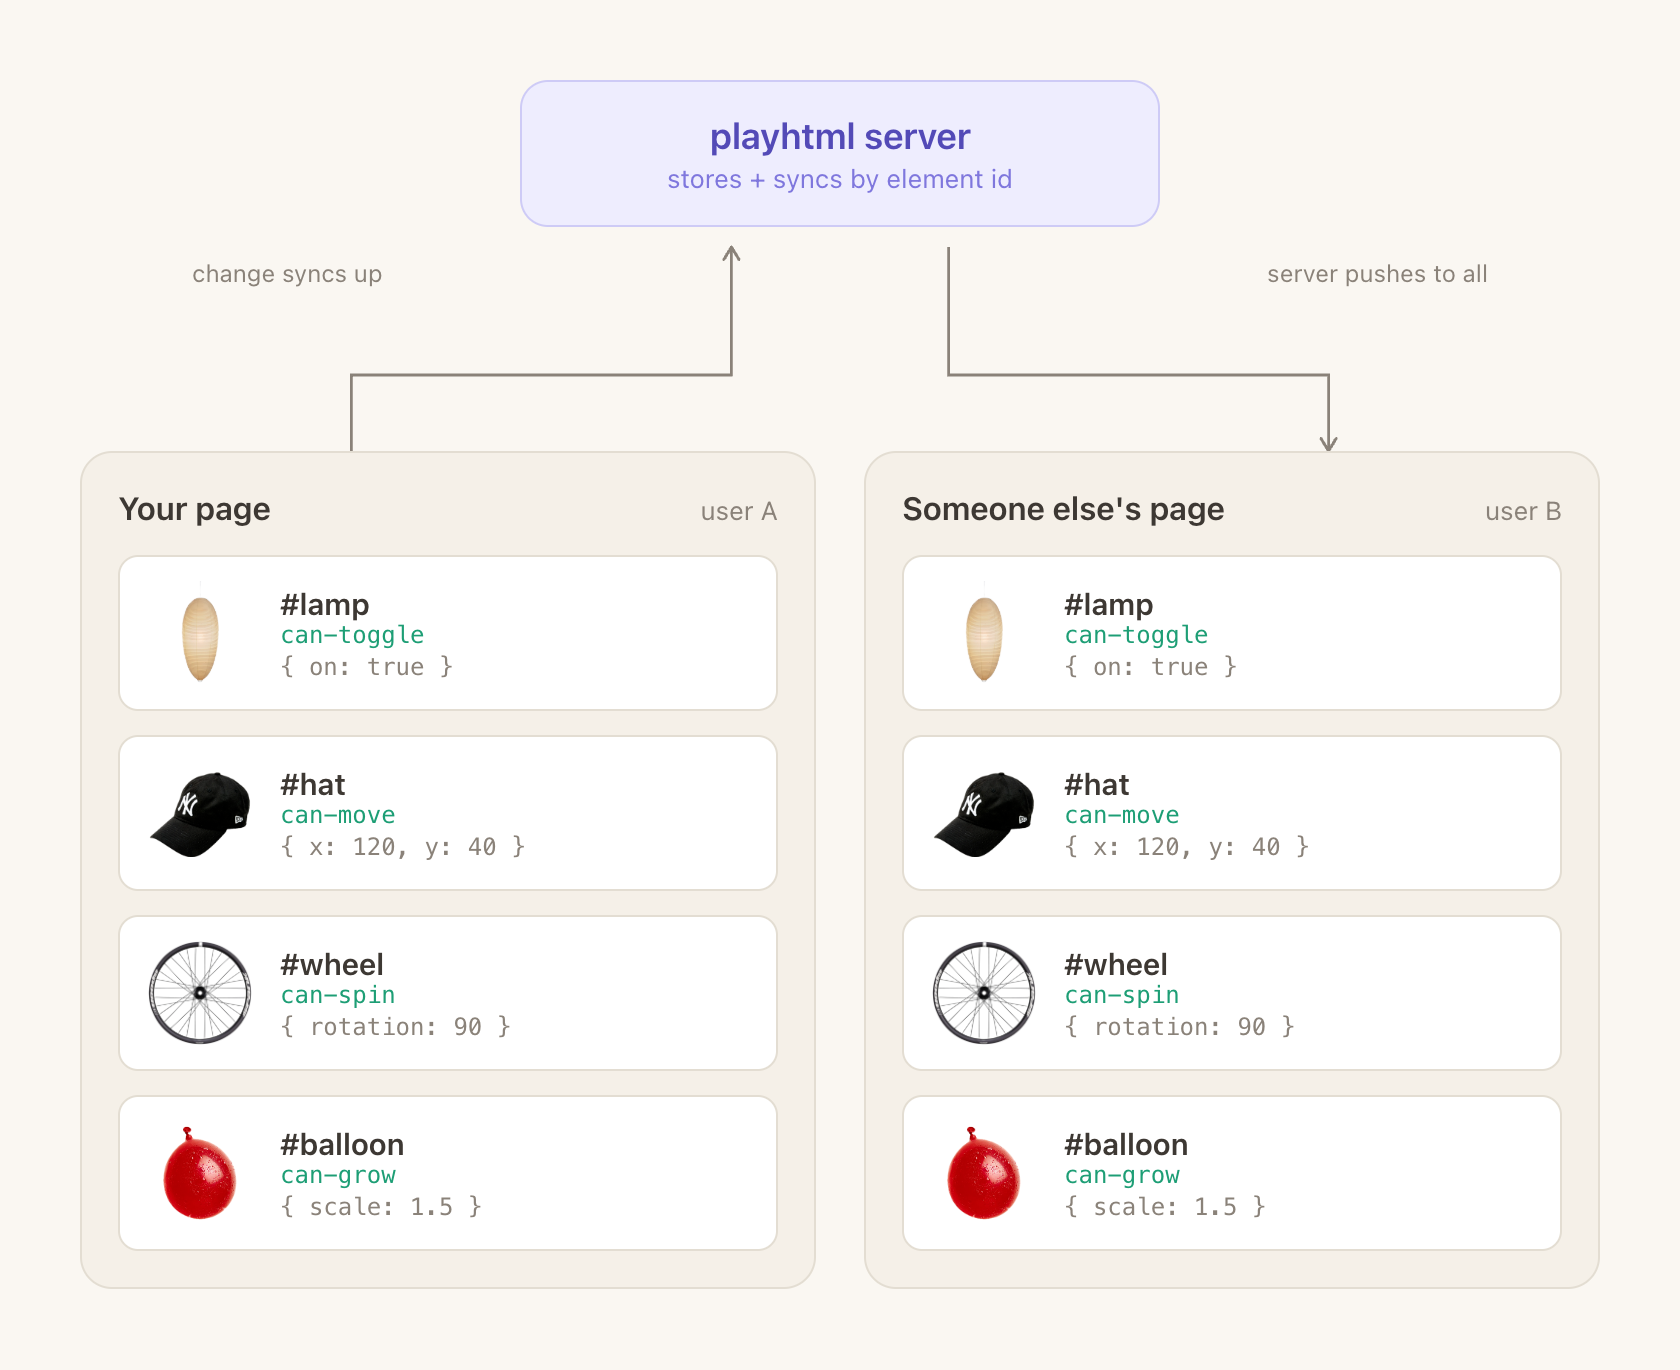
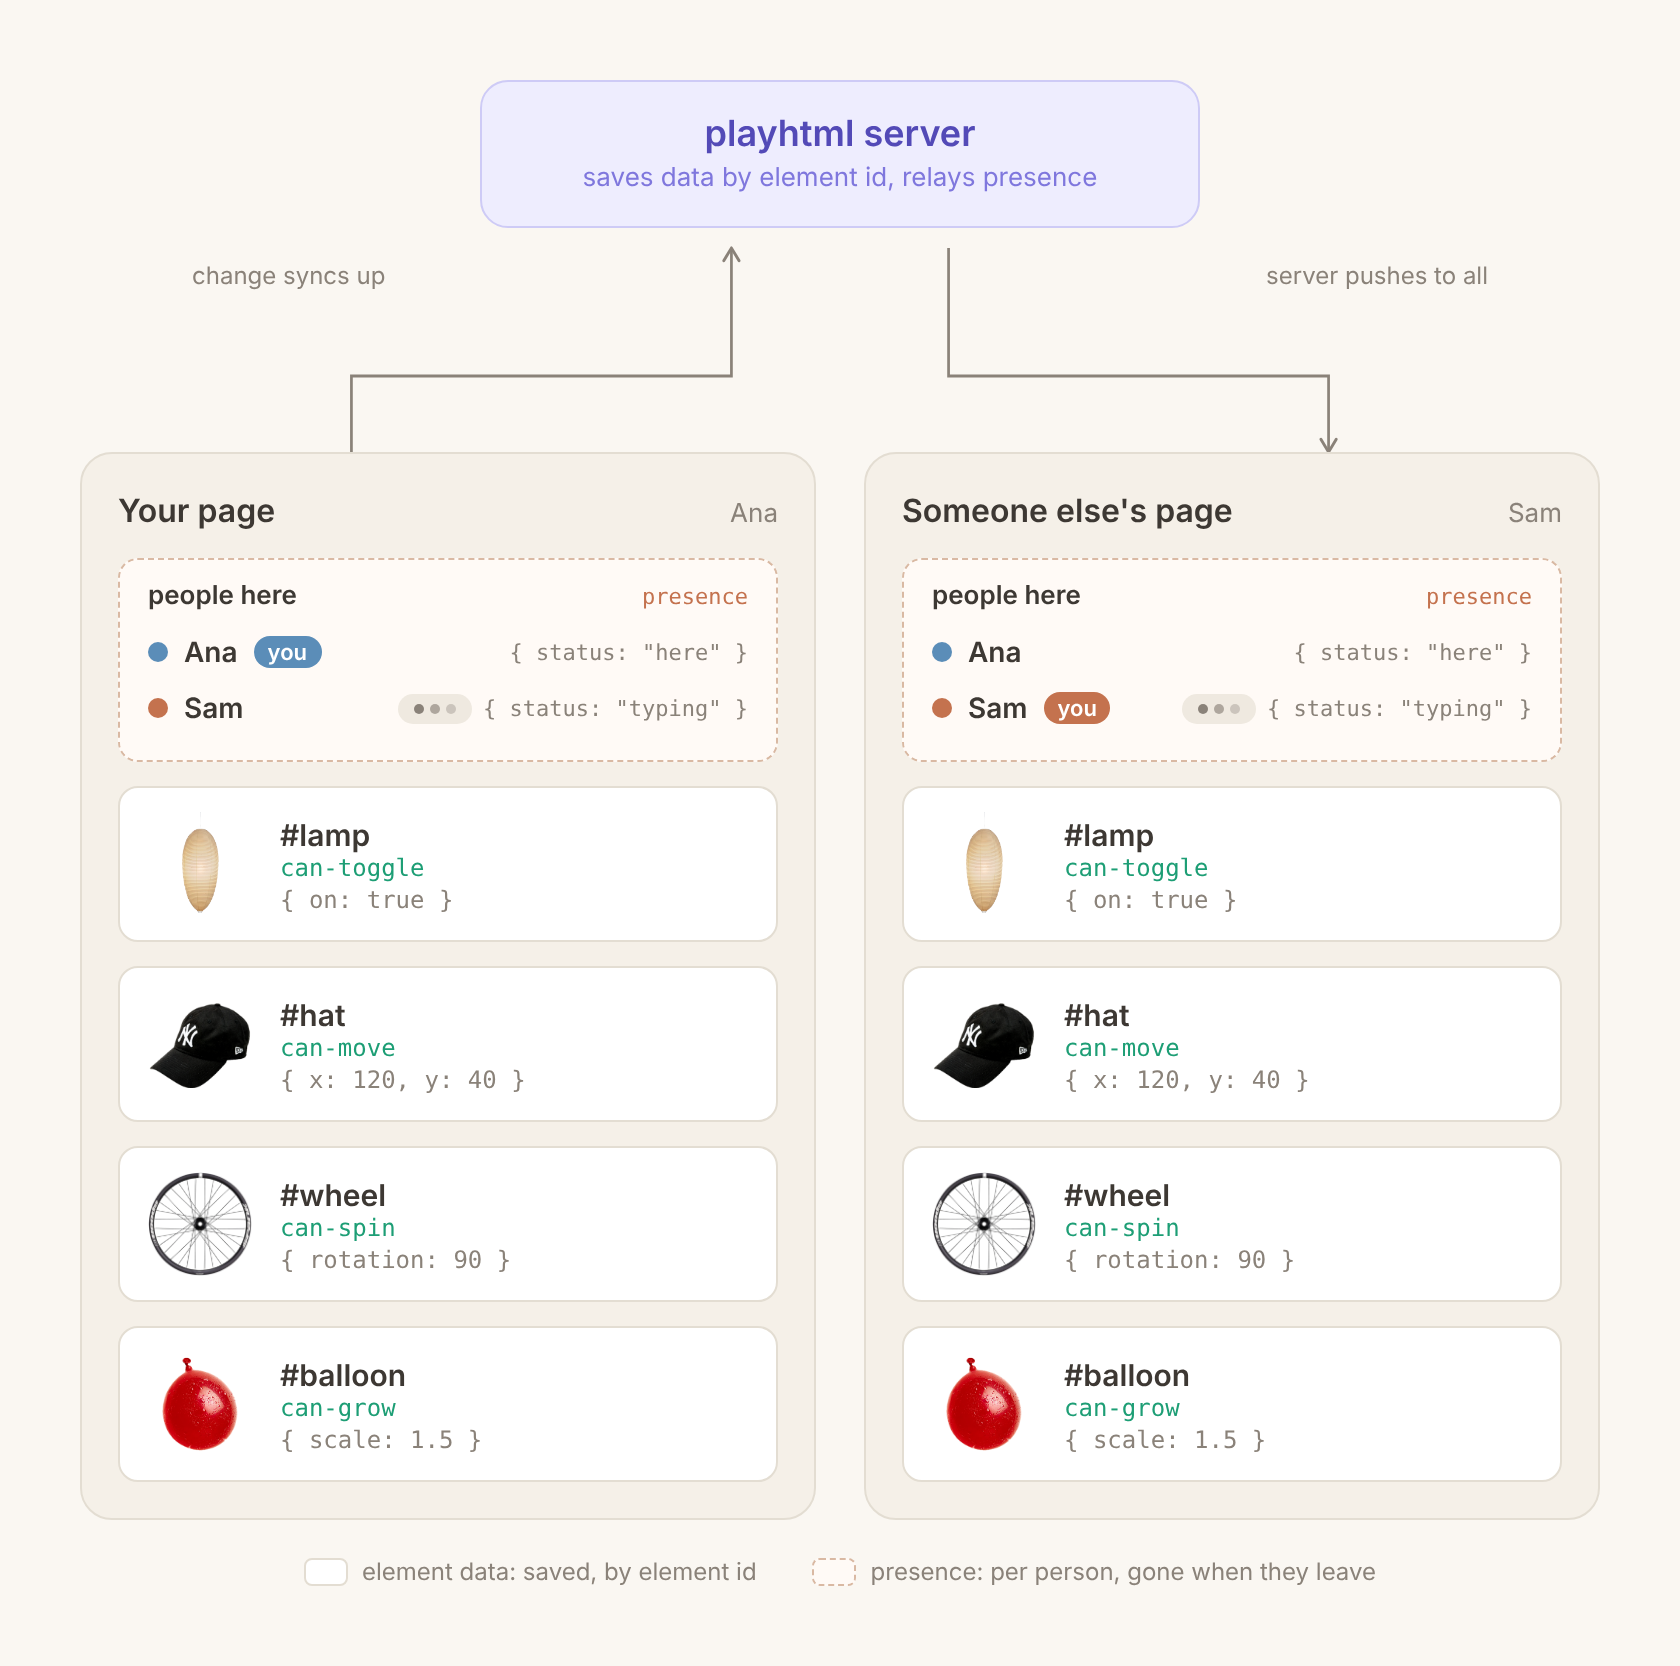
docs: show people and presence in the data essentials diagram
Each page in the diagram now has a "people here" panel with a "you" marker
and a typing indicator, plus a legend separating saved element data from
presence.

Claude-Session: https://claude.ai/code/session_01FxWwFDhxchd3WqVpeB9CXo

diff --git a/apps/docs/diagrams/how-playhtml-works.html b/apps/docs/diagrams/how-playhtml-works.html
@@ -30,7 +30,7 @@
     background: var(--bg);
   }
   .server {
-    width: 320px;
+    width: 360px;
     margin: 0 auto 8px;
     background: var(--server-bg);
     border: 1px solid var(--server-border);
@@ -107,13 +107,53 @@
     color: var(--text-muted);
     margin-top: 2px;
   }
+  /* people here: presence, per person, not saved */
+  .people {
+    border: 1.5px dashed #d9b9a3;
+    background: #fffaf6;
+    border-radius: 10px;
+    padding: 10px 14px 12px;
+    margin-bottom: 12px;
+  }
+  .people-head {
+    display: flex; justify-content: space-between; align-items: baseline;
+    font-size: 12px; color: var(--text-muted); margin-bottom: 6px;
+  }
+  .people-head .label { font-weight: 600; color: var(--text); font-size: 13px; }
+  .people-head .kind { font-family: "SFMono-Regular", ui-monospace, Menlo, monospace; font-size: 11px; color: #c4724e; }
+  .person { display: flex; align-items: center; gap: 8px; font-size: 14px; height: 28px; }
+  .person .dot { width: 10px; height: 10px; border-radius: 50%; flex: 0 0 10px; }
+  .person .name { font-weight: 600; }
+  .person .you {
+    font-size: 11px; font-weight: 600; color: #fff; border-radius: 999px; padding: 1px 7px;
+  }
+  .person .status { margin-left: auto; font-size: 12px; color: var(--text-muted); display: flex; align-items: center; gap: 6px; }
+  .person .pres { font-family: "SFMono-Regular", ui-monospace, Menlo, monospace; font-size: 11px; color: var(--text-muted); }
+  .typing {
+    display: inline-flex; gap: 3px; align-items: center;
+    background: #efe9e0; border-radius: 999px; padding: 5px 8px;
+  }
+  .typing i { width: 5px; height: 5px; border-radius: 50%; background: #8a8279; display: block; }
+  .typing i:nth-child(2) { opacity: .65; }
+  .typing i:nth-child(3) { opacity: .35; }
+  .a { background: #5b8db8; }
+  .b { background: #c4724e; }
+
+  .legend {
+    display: flex; justify-content: center; gap: 28px; margin-top: 18px;
+    font-size: 12px; color: var(--text-muted);
+  }
+  .legend span { display: inline-flex; align-items: center; gap: 7px; }
+  .legend .sw { width: 22px; height: 14px; border-radius: 4px; }
+  .legend .sw.solid { background: var(--surface); border: 1px solid var(--border); }
+  .legend .sw.dashed { background: #fffaf6; border: 1.5px dashed #d9b9a3; }
 </style>
 </head>
 <body>
   <div id="capture">
     <div class="server">
       <h2>playhtml server</h2>
-      <p>stores + syncs by element id</p>
+      <p>saves data by element id, relays presence</p>
     </div>
     <script>
       var base = location.href.replace(/[^/]*$/, "");
@@ -141,7 +181,12 @@
 
     <div class="pages">
       <div class="page">
-        <div class="page-head"><h3>Your page</h3><span class="who">user A</span></div>
+        <div class="page-head"><h3>Your page</h3><span class="who">Ana</span></div>
+        <div class="people">
+          <div class="people-head"><span class="label">people here</span><span class="kind">presence</span></div>
+          <div class="person"><span class="dot a"></span><span class="name">Ana</span><span class="you a">you</span><span class="status"><span class="pres">{ status: "here" }</span></span></div>
+          <div class="person"><span class="dot b"></span><span class="name">Sam</span><span class="status"><span class="typing"><i></i><i></i><i></i></span><span class="pres">{ status: "typing" }</span></span></div>
+        </div>
         <div class="el">
           <div class="el-art"><img src="/noguchi-hanging-lamp.png" alt="" /></div>
           <div class="el-meta">
@@ -177,7 +222,12 @@
       </div>
 
       <div class="page">
-        <div class="page-head"><h3>Someone else's page</h3><span class="who">user B</span></div>
+        <div class="page-head"><h3>Someone else's page</h3><span class="who">Sam</span></div>
+        <div class="people">
+          <div class="people-head"><span class="label">people here</span><span class="kind">presence</span></div>
+          <div class="person"><span class="dot a"></span><span class="name">Ana</span><span class="status"><span class="pres">{ status: "here" }</span></span></div>
+          <div class="person"><span class="dot b"></span><span class="name">Sam</span><span class="you b">you</span><span class="status"><span class="typing"><i></i><i></i><i></i></span><span class="pres">{ status: "typing" }</span></span></div>
+        </div>
         <div class="el">
           <div class="el-art"><img src="/noguchi-hanging-lamp.png" alt="" /></div>
           <div class="el-meta">
@@ -211,6 +261,11 @@
           </div>
         </div>
       </div>
+    </div>
+
+    <div class="legend">
+      <span><span class="sw solid"></span>element data: saved, by element id</span>
+      <span><span class="sw dashed"></span>presence: per person, gone when they leave</span>
     </div>
   </div>
 </body>

diff --git a/apps/docs/src/content/docs/data/data-essentials.md b/apps/docs/src/content/docs/data/data-essentials.md
@@ -7,7 +7,7 @@ sidebar:
 
 Every playhtml element owns a piece of shared data, keyed by the element's `id`. When you change an element, its data updates and syncs to everyone else on the page — the element with the same `id` on their side updates to match. This page covers how to shape that data, write to it correctly, and clean it up when elements go away.
 
-![Two browsers open to the same page. Each interactive element — a lamp with can-toggle, a hat with can-move, a wheel with can-spin, a balloon with can-grow — has its own data object keyed by element id. A change on one page syncs through the playhtml server and the matching element updates on the other page.](/docs/how-playhtml-works.png)
+![Two browsers open to the same page. Each interactive element (a lamp with can-toggle, a hat with can-move, a wheel with can-spin, a balloon with can-grow) has its own data object keyed by element id, saved by the playhtml server. A change on one page syncs through the server and the matching element updates on the other page. Above the elements, a "people here" panel shows each person's presence, which is not saved: Ana is marked as you on her page, and Sam shows a typing indicator on both pages.](/docs/how-playhtml-works.png)
 
 ## When to use which primitive
 

diff --git a/apps/docs/diagrams/README.md b/apps/docs/diagrams/README.md
@@ -12,7 +12,8 @@ can be regenerated.
   The "core concepts" overview: one page with what playhtml shares
   (element data, page data, people and their presence, events) called out.
 - `how-playhtml-works.html` → `../public/how-playhtml-works.png`
-  The element-data detail: two pages with the same elements, synced by id.
+  The data detail: two pages with the same elements synced by id, plus each
+  page's "people here" presence panel.
 
 ## Regenerating a PNG
 
